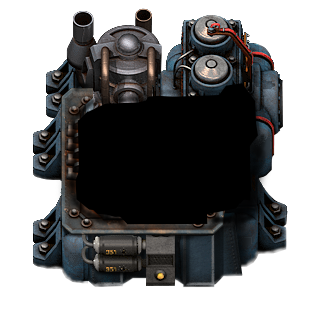
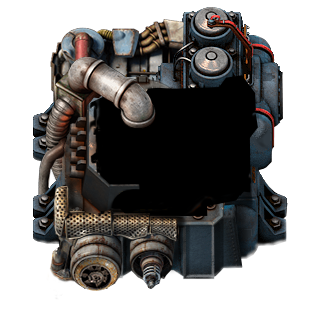
0.2.1

diff --git a/README.md b/README.md
@@ -23,8 +23,9 @@ This is very early access, the experience is probably not balanced yet.
 - Includes [a piano cover of Final Fantasy IX's Branbal by Pablo Enver](https://www.youtube.com/watch?v=ciHHp7-qfwo) (used with permission)
 - The cosmic incubator, cloning vat and synaptic assembler graphics majorly contain parts of [Hurricane046 buildings](https://shorturl.at/AFcDm) (CC BY)
 - The cosmic incubator and simulation chamber contains parts from [Krastorio 1 and 2](https://mods.factorio.com/mod/Krastorio2Assets) (GNU LGPLv3)
-- The simulation chamber and hypercrusher contain graphics from [Yuoki Industries](https://mods.factorio.com/mod/Yuoki) (CC BY-NC-SA) and other YuokiTani images shared on the forum
+- The simulation chamber and hypercrusher contains graphics from [Yuoki Industries](https://mods.factorio.com/mod/Yuoki) (CC BY-NC-SA) and other YuokiTani images shared on the forum
 - The simulation chamber contains graphics from [Exotic Space Industries](https://mods.factorio.com/mod/exotic-space-industries) by PreLeyZero (GNU LGPLv3)
+- The hypercrusher uses some graphics from Hurricane046's buildings (CC BY license)
 - 6 icons take elements from [Periodic Madness](https://mods.factorio.com/mod/periodic-madness) by Mr.SmoothieHuman
 - 4 icon (panglite fiber, brains, panglia crusher) use icons by [Malcolm Riley](https://github.com/malcolmriley/unused-renders)
 - Datacell icon uses parts of petrak@ icon
